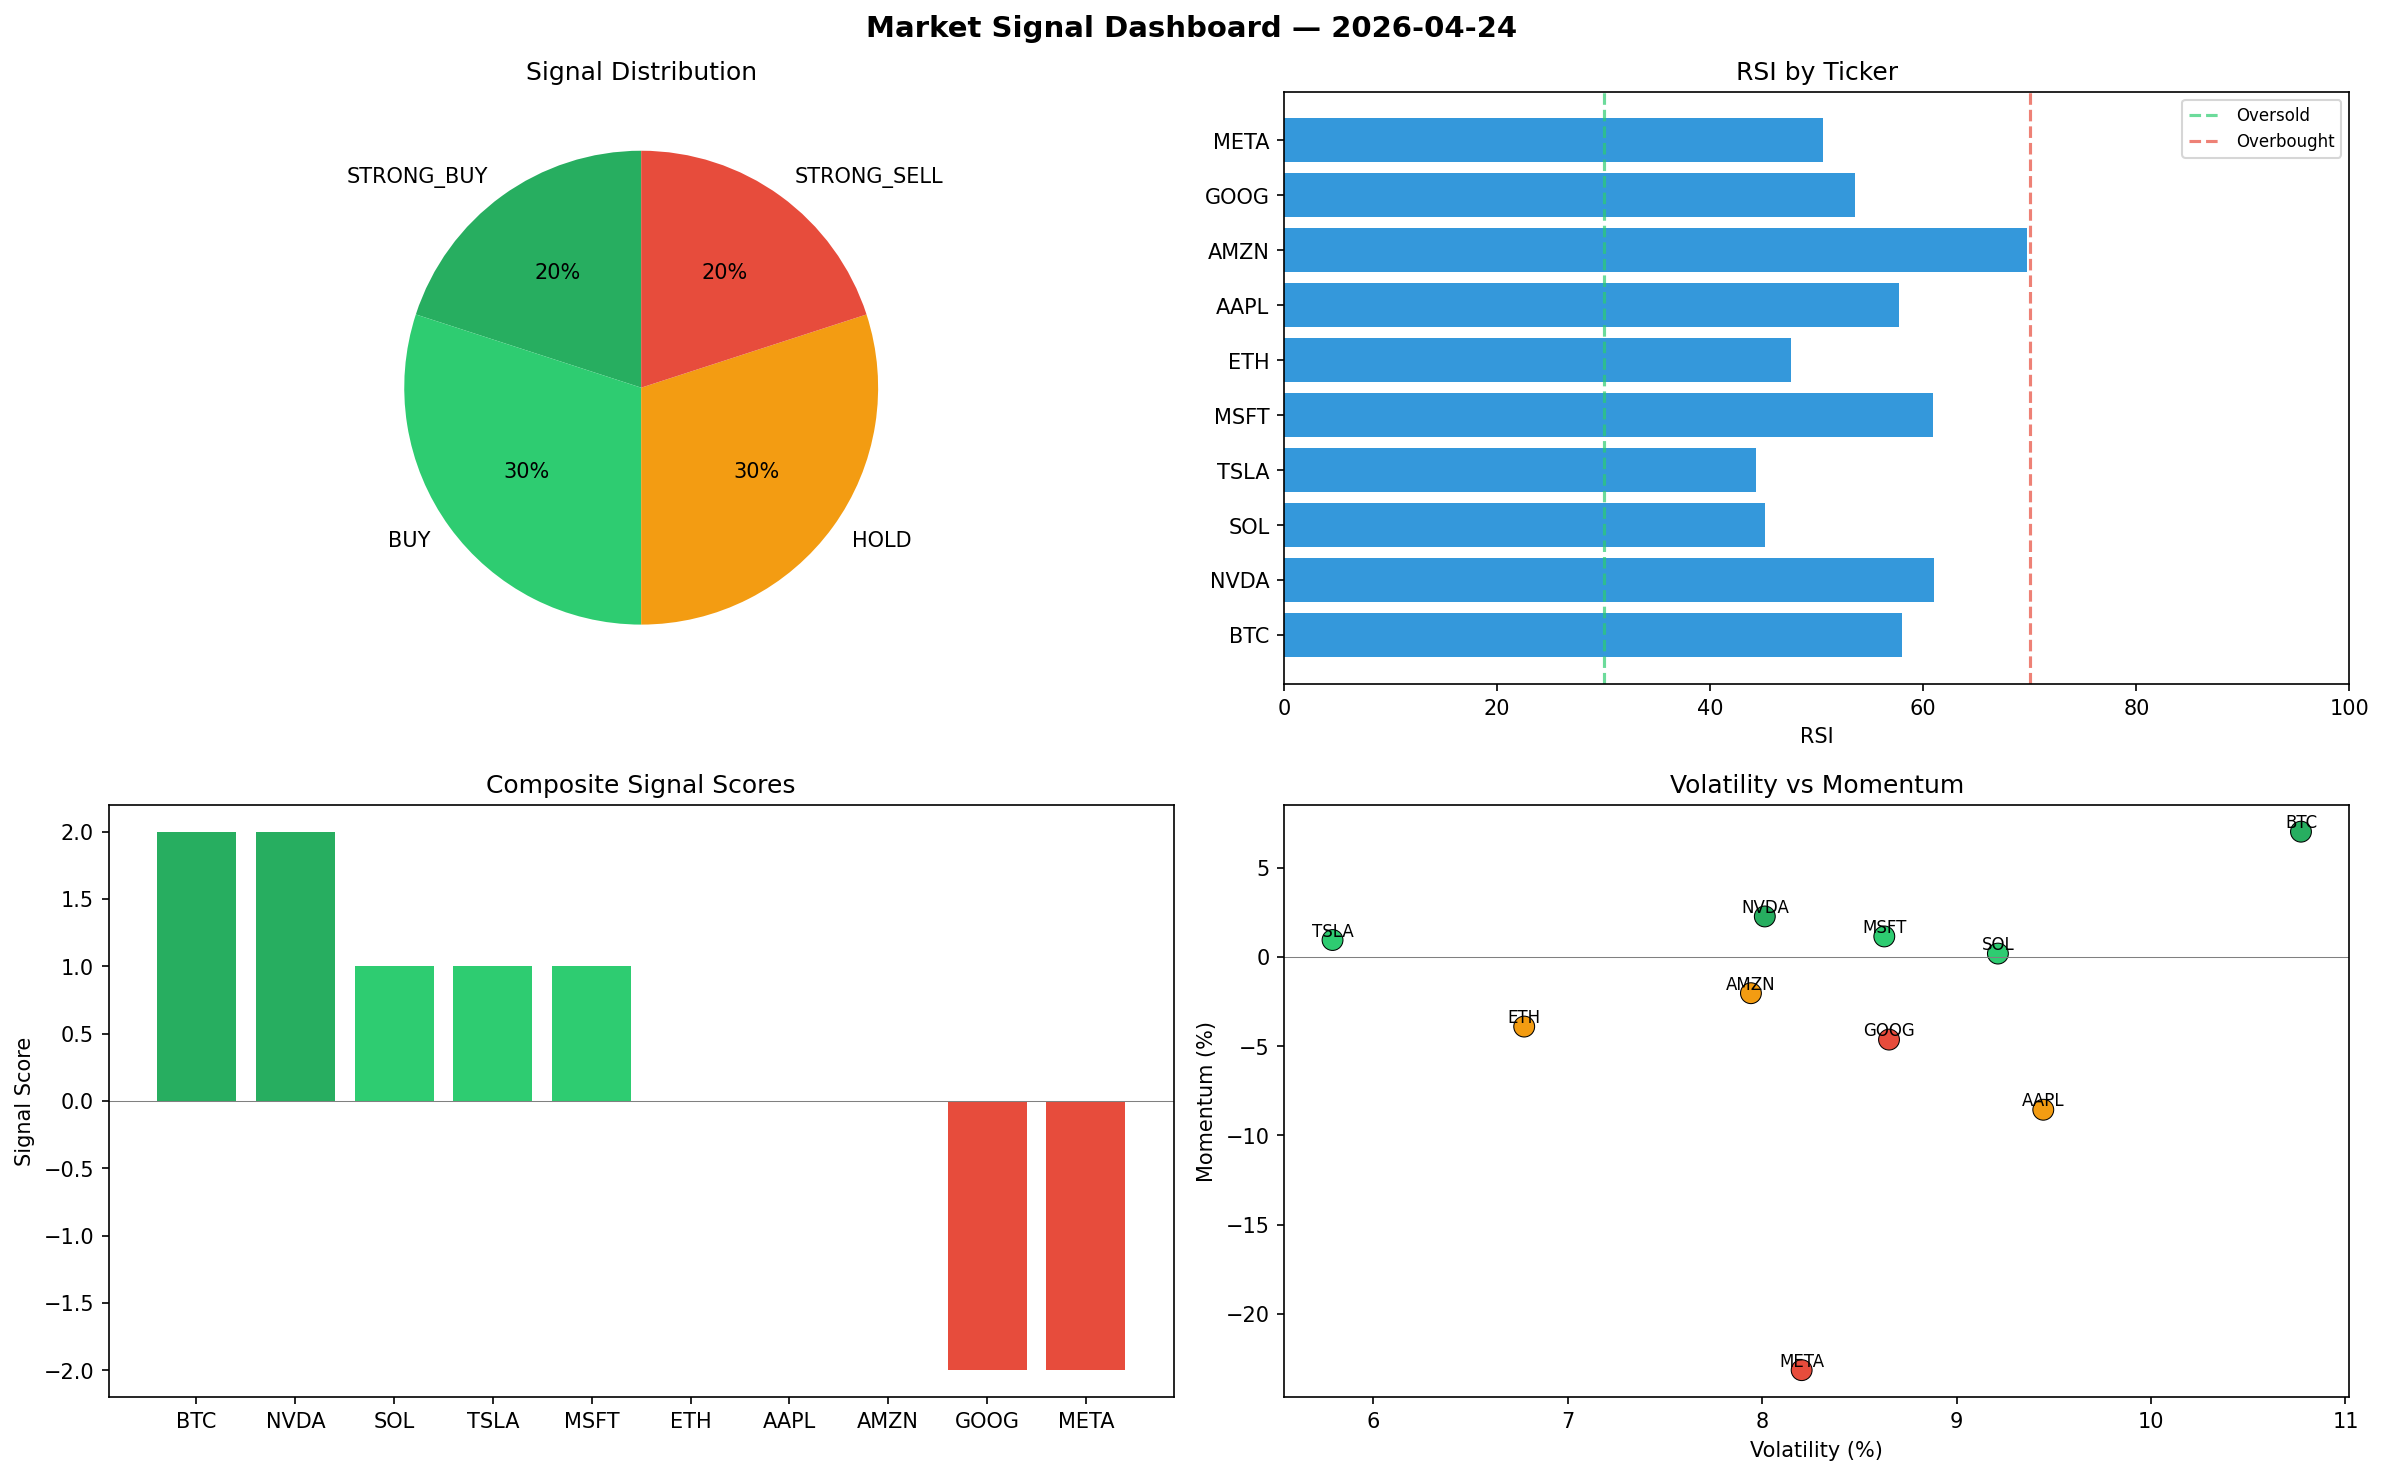
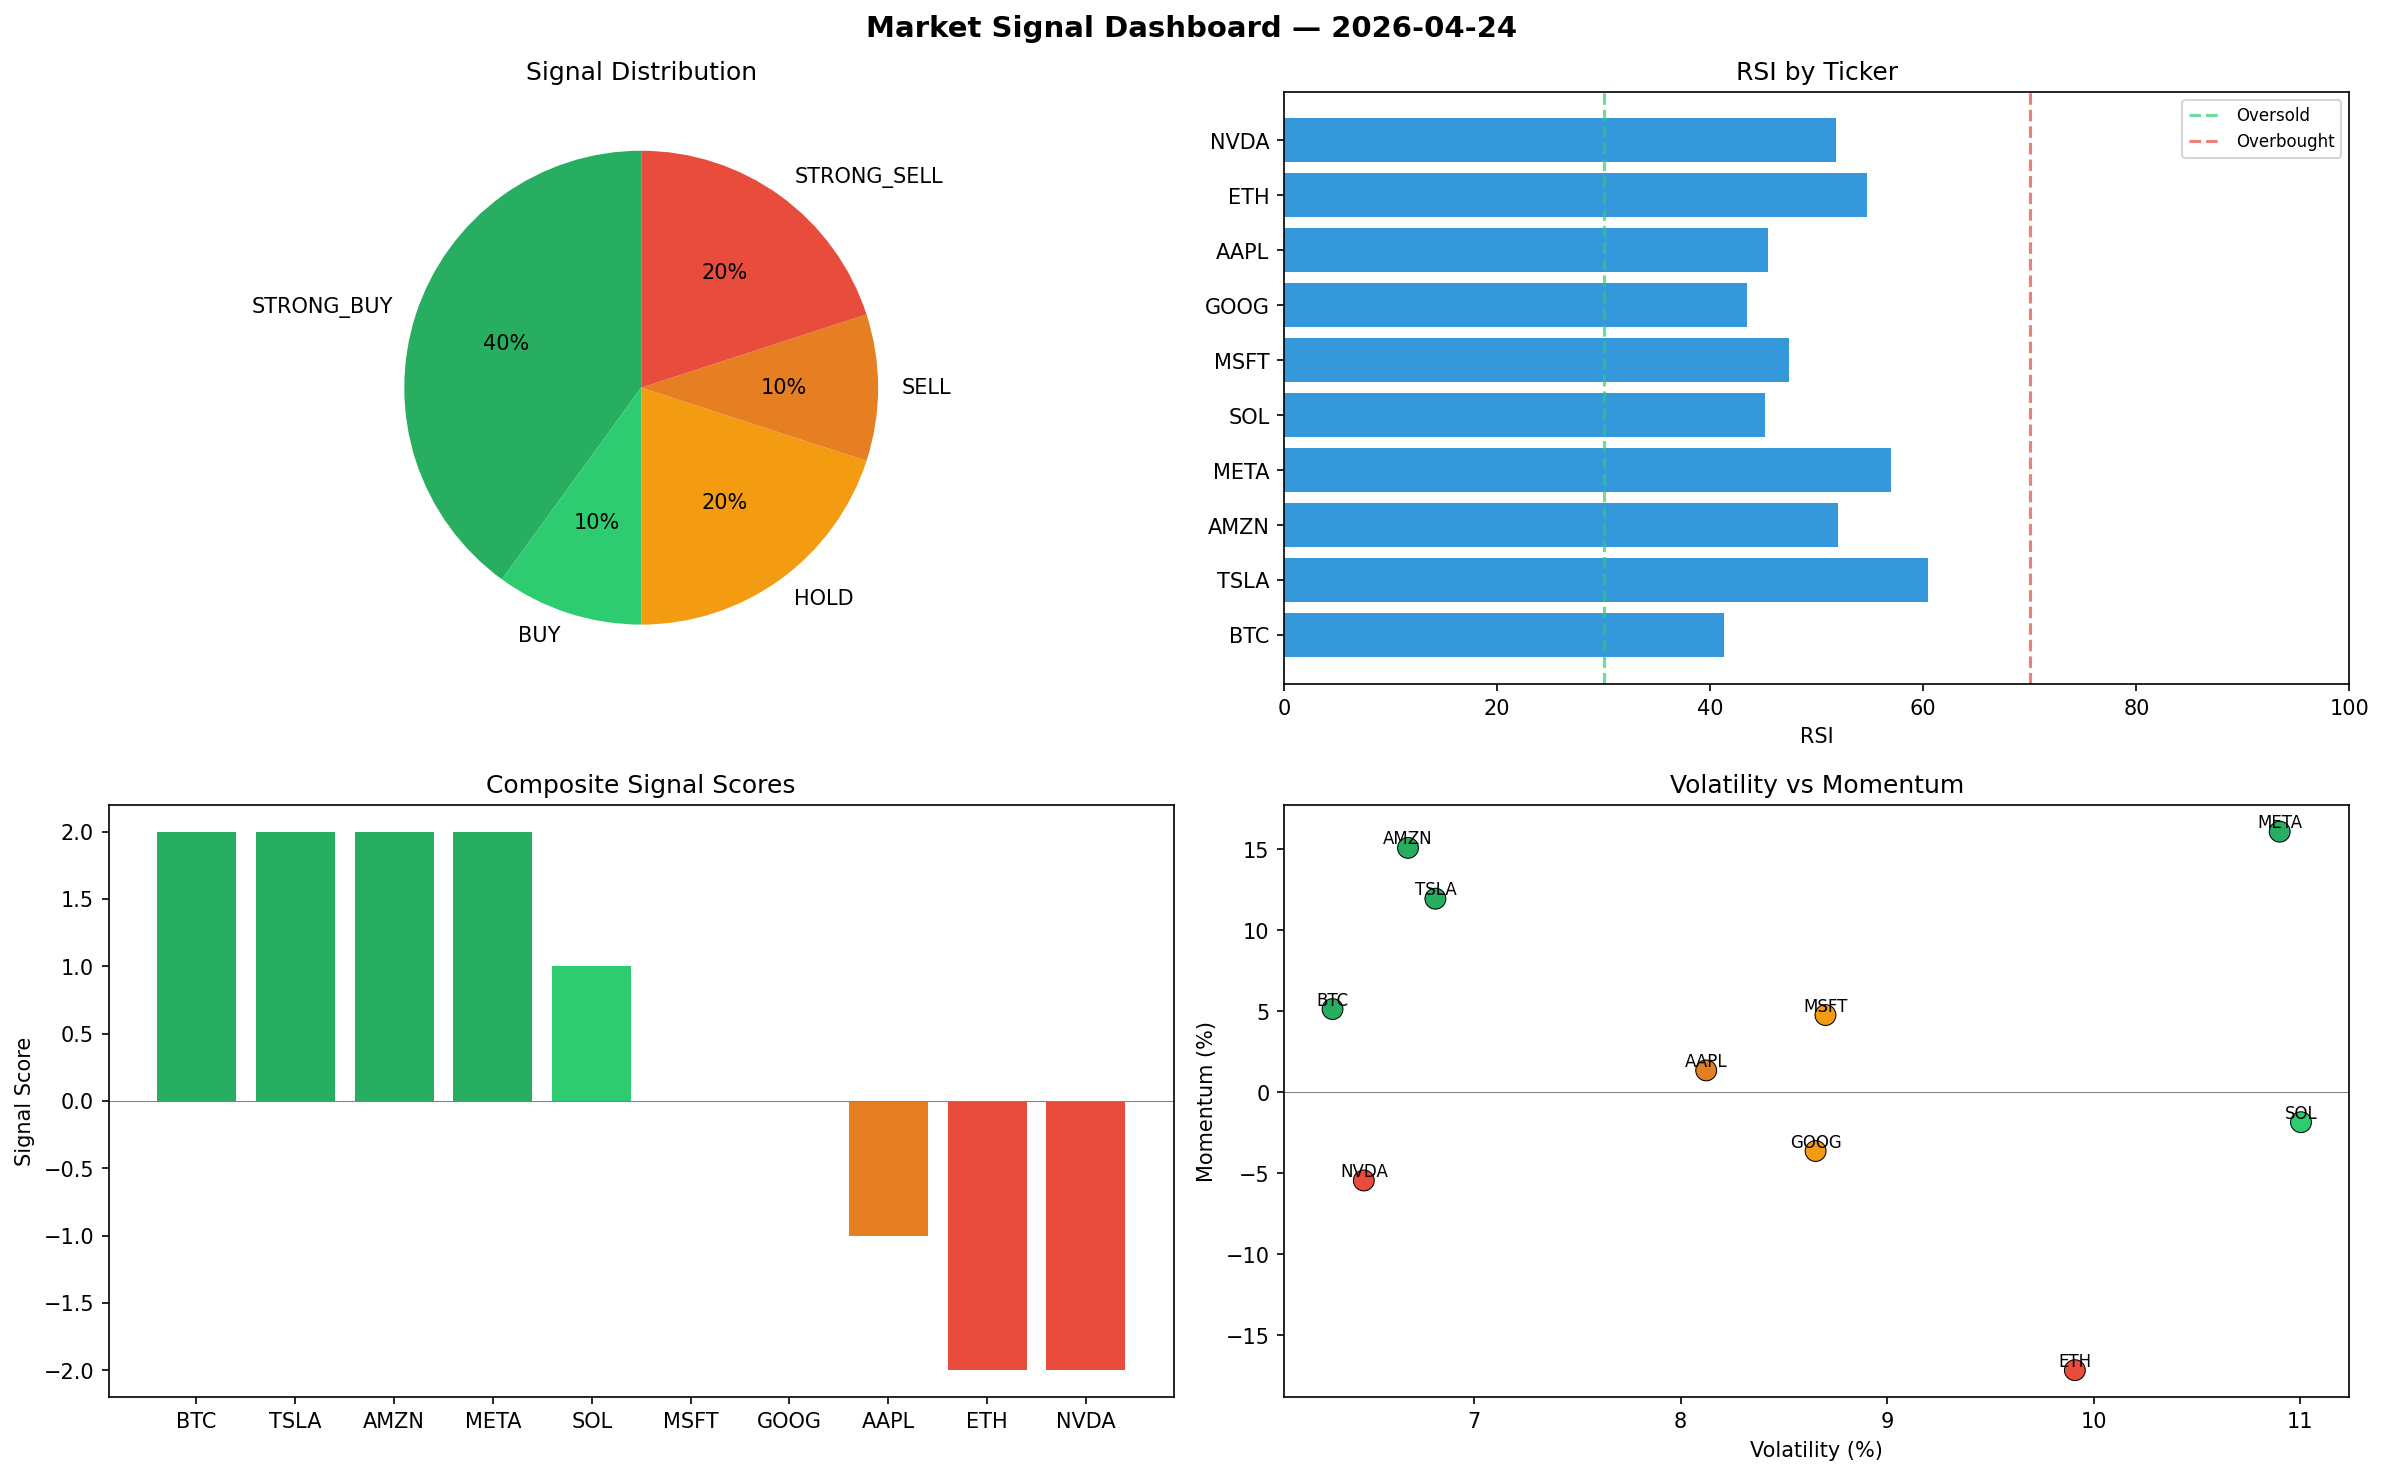
automated-bots: market signals 2026-04-24T10:00

diff --git a/logs/2026-04-24.md b/logs/2026-04-24.md
@@ -1,6 +1,6 @@
 # Market Signal Report — 2026-04-24
 
-**Run ID:** `cbd99ac71d` | **Buy:** 5 | **Sell:** 2 | **Hold:** 3
+**Run ID:** `27d7d063a7` | **Buy:** 5 | **Sell:** 3 | **Hold:** 2
 
 ![Dashboard](2026-04-24_dashboard.png)
 
@@ -8,28 +8,28 @@
 
 | Ticker | Price | Signal | Score | RSI | Momentum | Confidence |
 |--------|-------|--------|-------|-----|----------|------------|
-| BTC | $459.39 | **STRONG_BUY** | 2 | 58.01 | 0.0702 | 0.5 |
-| NVDA | $3166.88 | **STRONG_BUY** | 2 | 61.03 | 0.0227 | 0.5 |
-| SOL | $2516.08 | **BUY** | 1 | 45.18 | 0.0019 | 0.25 |
-| TSLA | $128.07 | **BUY** | 1 | 44.28 | 0.0095 | 0.25 |
-| MSFT | $4710.78 | **BUY** | 1 | 60.89 | 0.0115 | 0.25 |
-| ETH | $799.15 | **HOLD** | 0 | 47.57 | -0.039 | 0.0 |
-| AAPL | $2312.21 | **HOLD** | 0 | 57.71 | -0.0856 | 0.0 |
-| AMZN | $4578.84 | **HOLD** | 0 | 69.71 | -0.0203 | 0.0 |
-| GOOG | $4745.55 | **STRONG_SELL** | -2 | 53.63 | -0.0463 | 0.5 |
-| META | $105.28 | **STRONG_SELL** | -2 | 50.54 | -0.2315 | 0.5 |
+| BTC | $4873.17 | **STRONG_BUY** | 2 | 41.3 | 0.0514 | 0.5 |
+| TSLA | $1596.1 | **STRONG_BUY** | 2 | 60.42 | 0.1196 | 0.5 |
+| AMZN | $2079.39 | **STRONG_BUY** | 2 | 52.02 | 0.151 | 0.5 |
+| META | $1154.88 | **STRONG_BUY** | 2 | 56.94 | 0.161 | 0.5 |
+| SOL | $3775.37 | **BUY** | 1 | 45.11 | -0.0185 | 0.25 |
+| MSFT | $505.26 | **HOLD** | 0 | 47.38 | 0.0477 | 0.0 |
+| GOOG | $4796.75 | **HOLD** | 0 | 43.46 | -0.0363 | 0.0 |
+| AAPL | $2432.49 | **SELL** | -1 | 45.38 | 0.0135 | 0.25 |
+| ETH | $3179.86 | **STRONG_SELL** | -2 | 54.7 | -0.1717 | 0.5 |
+| NVDA | $2778.58 | **STRONG_SELL** | -2 | 51.84 | -0.0545 | 0.5 |
 
 ## Delta vs Yesterday
 
 | Ticker | Today | Yesterday | Price Change | Signal Changed |
 |--------|-------|-----------|-------------|----------------|
-| BTC | STRONG_BUY | SELL | 📉 -80.6% | ⚠ YES |
-| NVDA | STRONG_BUY | STRONG_BUY | 📉 -0.2% | — |
-| SOL | BUY | STRONG_BUY | 📉 -13.96% | ⚠ YES |
-| TSLA | BUY | STRONG_SELL | 📉 -79.48% | ⚠ YES |
-| MSFT | BUY | HOLD | 📉 -1.82% | ⚠ YES |
-| ETH | HOLD | STRONG_SELL | 📉 -59.05% | ⚠ YES |
-| AAPL | HOLD | STRONG_BUY | 📈 16.91% | ⚠ YES |
-| AMZN | HOLD | STRONG_BUY | 📈 120.02% | ⚠ YES |
-| GOOG | STRONG_SELL | SELL | 📈 1877.97% | ⚠ YES |
-| META | STRONG_SELL | BUY | 📉 -96.28% | ⚠ YES |
+| BTC | STRONG_BUY | SELL | 📈 105.75% | ⚠ YES |
+| TSLA | STRONG_BUY | STRONG_SELL | 📈 155.76% | ⚠ YES |
+| AMZN | STRONG_BUY | STRONG_BUY | 📉 -0.08% | — |
+| META | STRONG_BUY | BUY | 📉 -59.24% | ⚠ YES |
+| SOL | BUY | STRONG_BUY | 📈 29.11% | ⚠ YES |
+| MSFT | HOLD | HOLD | 📉 -89.47% | — |
+| GOOG | HOLD | SELL | 📈 1899.31% | ⚠ YES |
+| AAPL | SELL | STRONG_BUY | 📈 22.99% | ⚠ YES |
+| ETH | STRONG_SELL | STRONG_SELL | 📈 62.92% | — |
+| NVDA | STRONG_SELL | STRONG_BUY | 📉 -12.44% | ⚠ YES |
